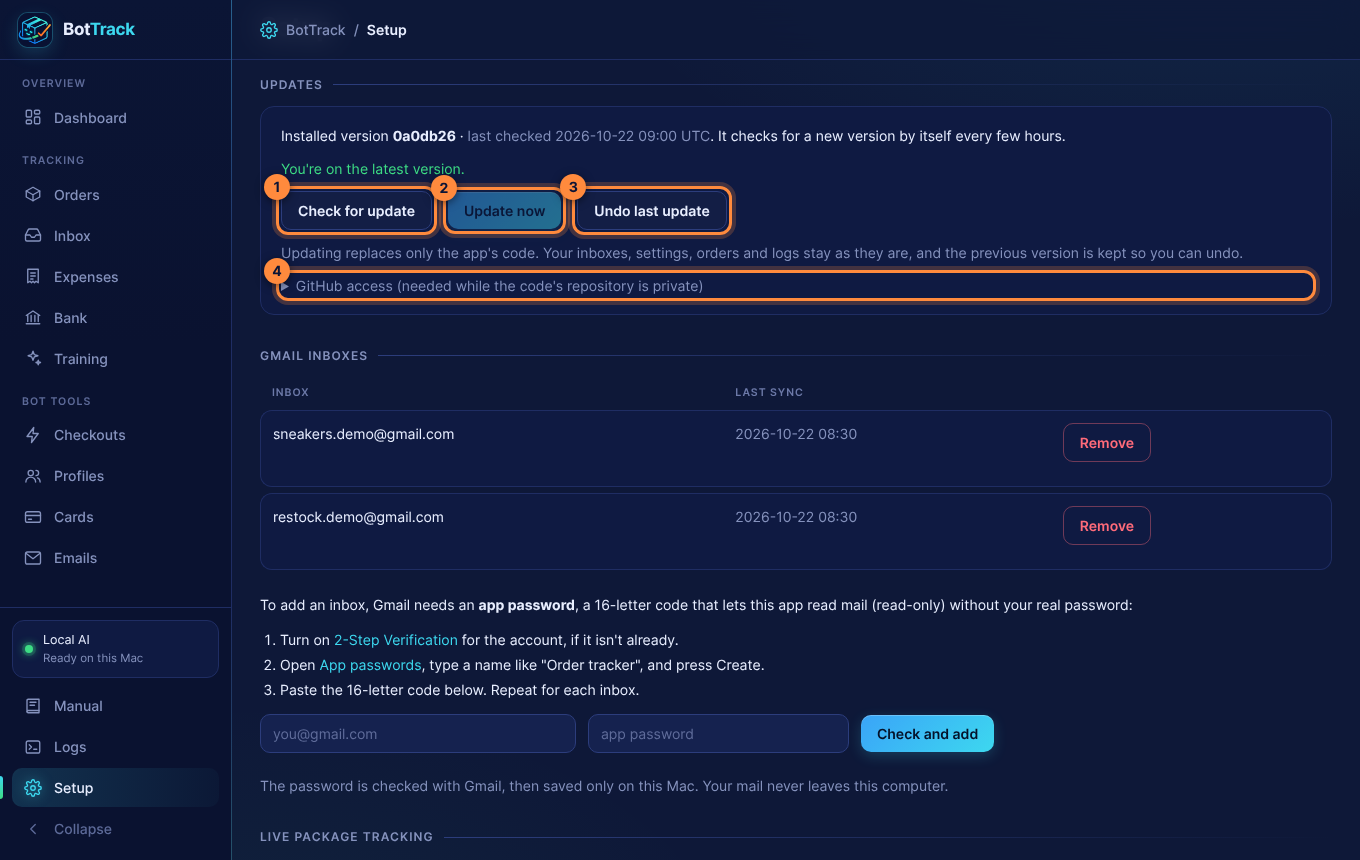
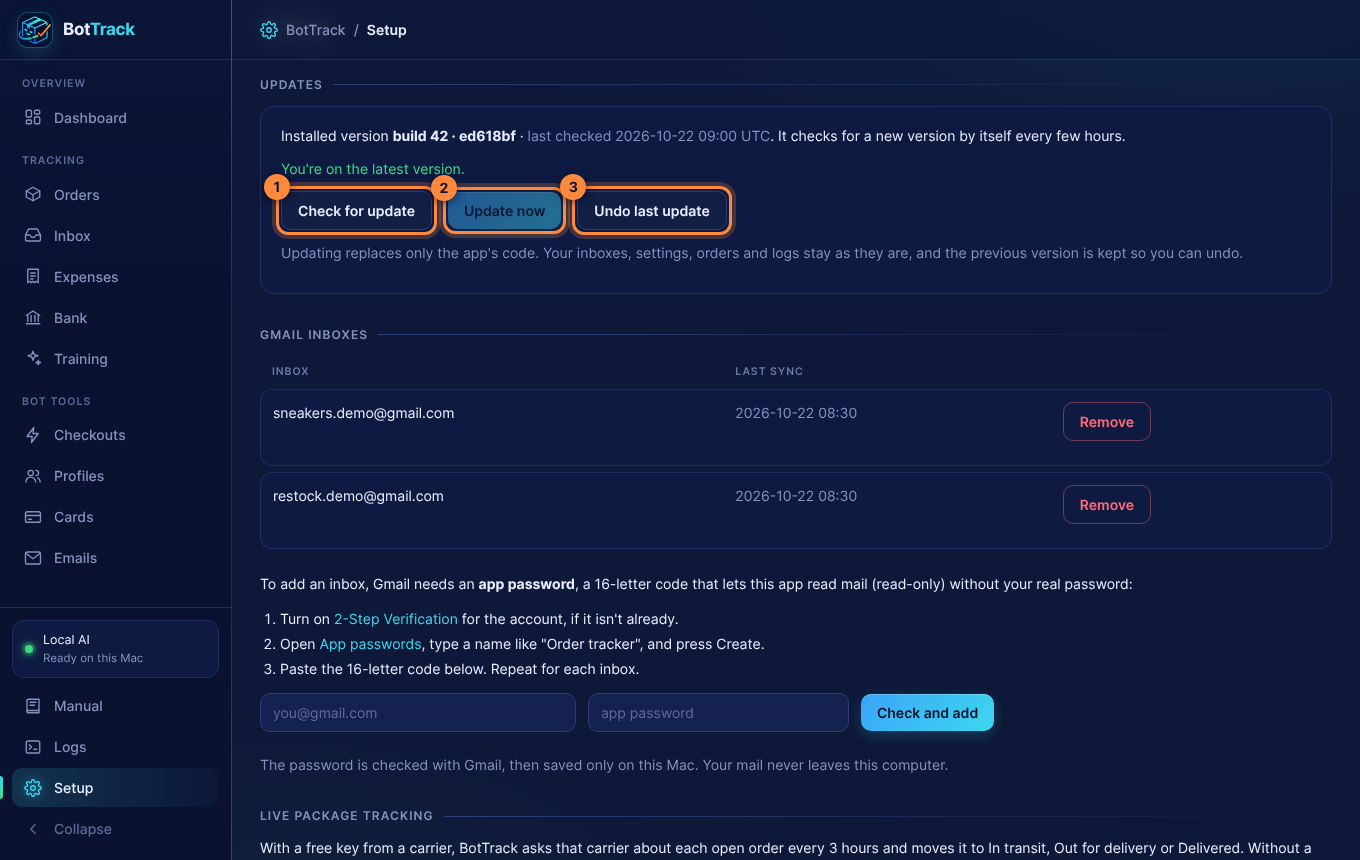
Manual: updates need no GitHub token now; link the releases page for the download
Claude-Session: https://claude.ai/code/session_015JMPhXTT3UTxzxB63oGw74

diff --git a/jigstream/templates/manual.html b/jigstream/templates/manual.html
@@ -73,6 +73,7 @@ Every picture has orange numbers on it; the list under the picture says what eac
 <h2>Getting started</h2>
 <h4 id="install">Installing BotTrack</h4>
 <ol class="steps">
+<li>Download <b>BotTrack.dmg</b> from the <a href="https://github.com/Chronik36/BotTrack-releases/releases/latest" target="_blank" rel="noopener">BotTrack releases page</a>.</li>
 <li>Open <b>BotTrack.dmg</b> and drag <b>BotTrack</b> into your <b>Applications</b> folder.</li>
 <li>The first time, <b>right-click</b> (or Control-click) BotTrack in Applications and choose <b>Open</b>, then <b>Open</b> again.
 macOS asks this once because BotTrack doesn't come from the App Store. After that it opens normally.</li>
@@ -342,8 +343,8 @@ and an <b>Update ready</b> chip and a green bar appear at the top of every page.
 {{ fig("setup-updates", "Setup → Updates.", [
   "Check for update: look right now instead of waiting.",
   "Update now: install the new version.",
-  "Undo last update: go back to the version you had before.",
-  "GitHub access: while the code is kept private, updates need a free GitHub token. Open this and follow the steps: pick only the BotTrack repository and give it Contents: Read-only."]) }}
+  "Undo last update: go back to the version you had before."]) }}
+<p>Updates come straight from BotTrack's public download page, so there's nothing to sign in to or set up.</p>
 <div class="tip">Updating only replaces the app. Your inboxes, settings, orders, cards and logs are never touched.</div>
 
 <h4 id="setup-inboxes">Gmail inboxes</h4>
@@ -470,7 +471,8 @@ and Compare shows how accurate they are on your own mail.</p>
 <p>Check that <b>Message Content Intent</b> is on for your bot, that the bot is in the server, and that the channels are ticked on
 <a href="#setup-discord">Setup → Discord</a>. A channel with a problem shows the error in its <i>Last read</i> column.</p>
 <h4>Updates fail</h4>
-<p>Open <a href="#setup-updates">Setup → Updates → GitHub access</a> and paste a fresh token.</p>
+<p>Updates need an internet connection. Press <span class="ui">Check for update</span> on <a href="#setup-updates">Setup → Updates</a>;
+if it shows an error, download the logs and send them over.</p>
 <h4>Where is my data?</h4>
 <p>In <b>~/Library/Application Support/BotTrack</b> on this Mac: your settings, database, logs and AI models. Updates never touch it.
 Card numbers are encrypted with a key kept in your Keychain.</p>

diff --git a/tools/manual_screenshots.py b/tools/manual_screenshots.py
@@ -172,7 +172,7 @@ def patch():
         {"model": "mlx-community/Qwen3-8B-abliterated-4bit", "engine": "mlx", "accuracy": 87, "right": 26,
          "total": 30, "unreadable": 1, "seconds": 2.2}]})
     discord.DiscordClient = FakeDiscord
-    updater.installed_version = lambda app_dir=None: "0a0db26"
+    updater.installed_version = lambda app_dir=None: "build-42-ed618bf"
     updater.can_self_update = lambda app_dir=None: True
     updater.backups = lambda app_dir=None: ["previous"]
     updater.state.update({"checked_at": "2026-10-22T09:00:00", "available": False})
@@ -345,7 +345,7 @@ shot("cards-add", "/cards", [("#adddlg select", 1), ("#adddlg textarea", 2), ("#
 shot("emails", "/emails?group=Gmail%20dots", [(".gside", 1), ("button[onclick*=adddlg]", 2), ("a[href^='/emails/export']", 3),
                            ("tr:nth-child(5) td:nth-last-child(2)", 4)])
 shot("setup-updates", "/setup", [("form[action='/update/check'] button", 1), ("form[action='/update/install'] button", 2),
-                                 ("form[action='/update/rollback'] button", 3), ("summary@GitHub access", 4)],
+                                 ("form[action='/update/rollback'] button", 3)],
      scroll="h3@Updates")
 shot("setup-inboxes", "/setup", [("table:has(form[action='/setup/inbox/remove'])", 1), ("form[action='/setup/inbox'] input[name=address], form[action='/setup/inbox']", 2),
                                  ("form[action='/setup/inbox/remove'] button", 3)], scroll="h3@Gmail inboxes")
